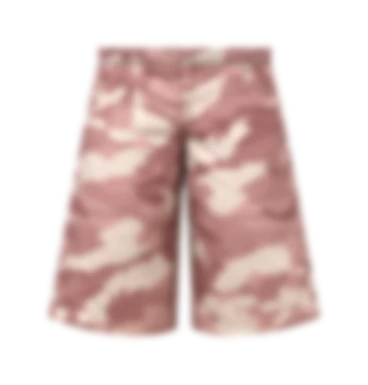
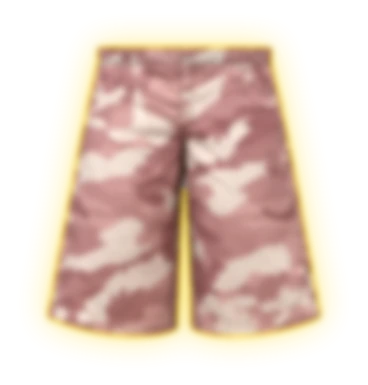
Celular: contorno amarillo nitido pre-renderizado en prendas del fondo; difuminado de videos con capa superpuesta (compatible iPhone)
Claude-Session: https://claude.ai/code/session_011B2LJbQYGbXqV1iH57QVEF

Changed region(s): [[0.0897, 0.0623, 0.8967, 0.9039]]

diff --git a/promise.js b/promise.js
@@ -464,7 +464,7 @@
     '.pm-gift .pm-wrap{text-align:center}.pm-gift .pm-kick{display:flex;justify-content:center}.pm-gift .pm-lead{margin-left:auto!important;margin-right:auto!important;text-align:center}.pm-gcs{display:grid;grid-template-columns:repeat(5,1fr);gap:22px;margin:46px auto 34px;perspective:1100px;max-width:1220px}.pm-gc{margin:0}.pm-gc-c{position:relative;border-radius:12px;overflow:hidden;box-shadow:0 22px 40px rgba(0,0,0,.6);animation:pm-gcf 6s ease-in-out infinite;animation-delay:calc(var(--i)*-.7s);will-change:transform}.pm-gc-c img{display:block;width:100%;height:auto}.pm-gc-c i{position:absolute;top:-50%;bottom:-50%;width:22%;left:-40%;background:linear-gradient(90deg,transparent,rgba(255,255,255,.08) 30%,rgba(255,255,255,.75) 50%,rgba(255,255,255,.08) 70%,transparent);transform:rotate(20deg);mix-blend-mode:overlay;animation:pm-gcb 3.6s cubic-bezier(.5,0,.3,1) infinite;animation-delay:calc(var(--i)*-.7s)}.pm-gl4 .pm-gc-c i{background:linear-gradient(90deg,transparent,rgba(255,240,170,.15) 30%,rgba(255,250,220,.95) 50%,rgba(255,240,170,.15) 70%,transparent)}.pm-gl5 .pm-gc-c{box-shadow:0 22px 40px rgba(0,0,0,.6),0 0 30px rgba(255,212,0,.25)}.pm-gl5 .pm-gc-c i{width:28%;background:linear-gradient(90deg,transparent,rgba(255,212,0,.2) 30%,#fff 50%,rgba(255,212,0,.2) 70%,transparent);mix-blend-mode:screen;opacity:.85}.pm-gc figcaption{margin-top:14px;display:flex;justify-content:space-between;font-size:13px}.pm-gc figcaption b{color:#FFD400;letter-spacing:.08em;text-transform:uppercase;font-size:12px}.pm-gc figcaption span{opacity:.85}@keyframes pm-gcf{0%,100%{transform:translateY(0) rotateX(7deg) rotateY(-9deg)}50%{transform:translateY(-10px) rotateX(-4deg) rotateY(9deg)}}@keyframes pm-gcb{0%{left:-40%}55%,100%{left:130%}}.pm-gc-cta small{display:block;margin-top:14px;opacity:.6;font-size:13px}@media(max-width:767px){.pm-gcs{grid-template-columns:repeat(2,1fr);gap:22px 14px;margin-top:30px}.pm-gl5{grid-column:1/-1;max-width:62%;margin:0 auto!important}}@media(prefers-reduced-motion:reduce){.pm-gc-c,.pm-gc-c i{animation:none}}',
     '.pm-off,.pm-off *,.pm-off::before,.pm-off::after,.pm-off *::before,.pm-off *::after{animation-play-state:paused!important}',
     '.pm-hero .pm-hs.pm-far img{filter:none!important;opacity:1!important;width:135.3%!important;max-width:none!important;margin:-17.65% 0 0 -17.65%!important}',
-    '.pm-cat .pm-media.pm-vid video{-webkit-mask-image:radial-gradient(ellipse 72% 72% at 50% 50%,#000 62%,transparent 100%);mask-image:radial-gradient(ellipse 72% 72% at 50% 50%,#000 62%,transparent 100%);-webkit-backface-visibility:hidden;backface-visibility:hidden}',
+    '.pm-cat .pm-media.pm-vid{position:absolute}.pm-cat .pm-media.pm-vid::after{content:"";position:absolute;inset:0;pointer-events:none;z-index:1;background:radial-gradient(ellipse 75% 75% at 50% 48%,transparent 58%,#101010 100%)}',
     '.pm-hs-in{-webkit-backface-visibility:hidden;backface-visibility:hidden}',
     '/* Ruido solo en body: las secciones son transparentes para que no se apilen capas y cambien de tono */',
     'body{background-color:#0F0F0F!important;background-image:url(__NOISE__)!important;background-size:180px 180px!important;background-repeat:repeat!important}',
